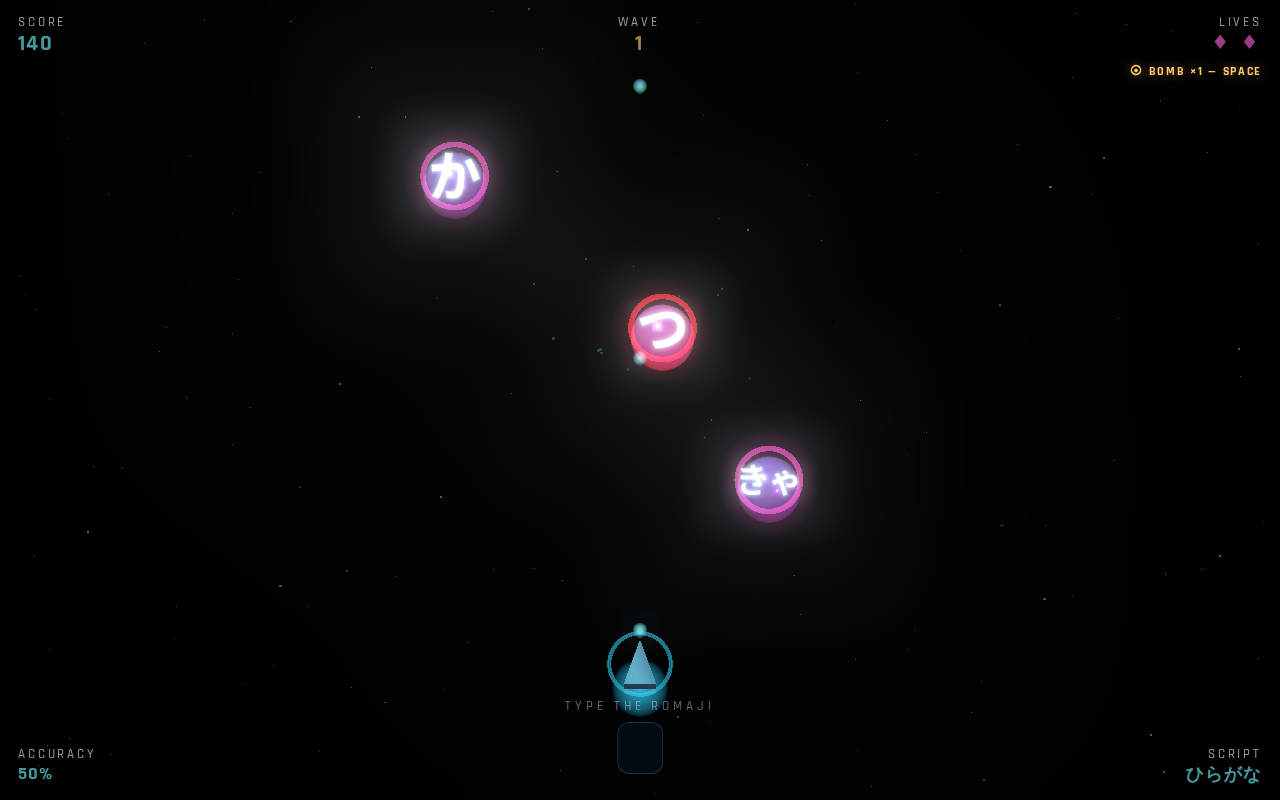
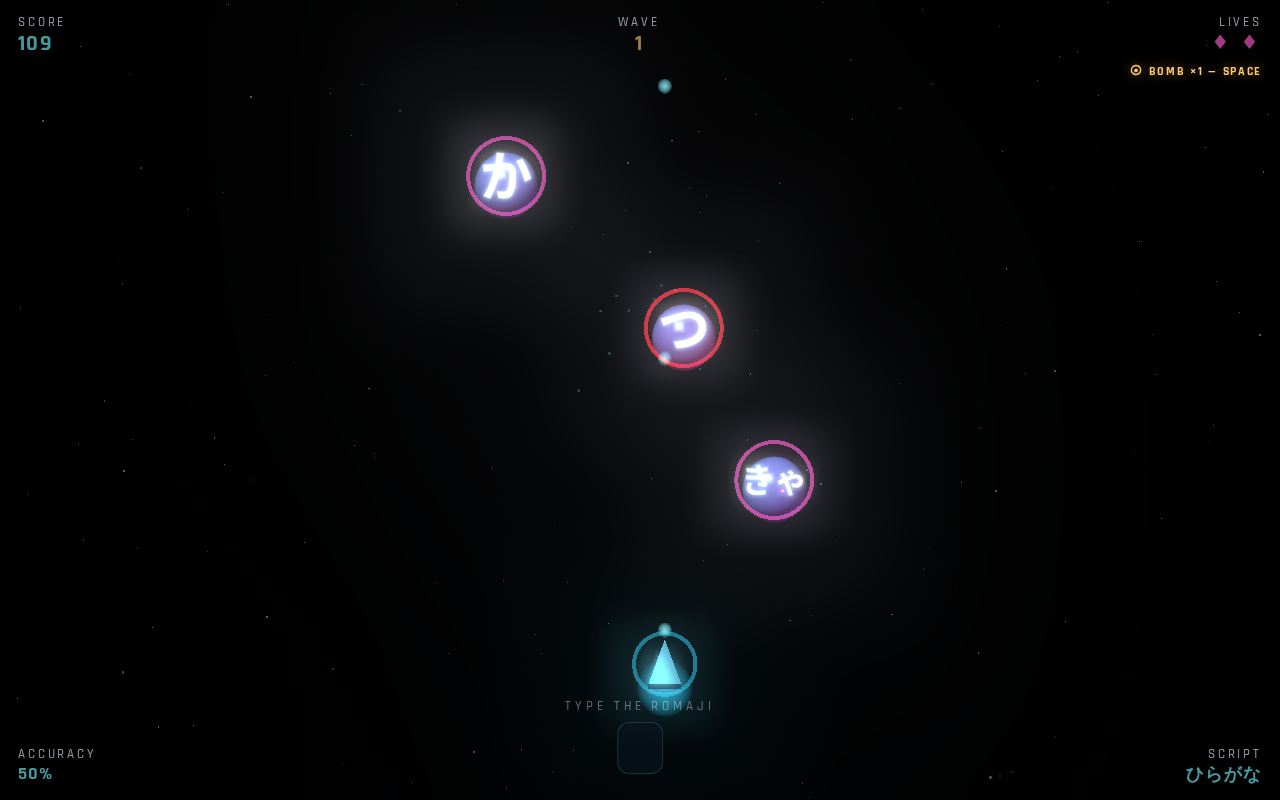
Fix enemy bubbles reading as flat tiles instead of spheres
Two things were independently flattening the lit sphere's shading:

1. The per-frame emissive tint (targeting/wounded state color) was applied
   uniformly across the whole surface regardless of normal direction, which
   washed out the directional gradient entirely. Cut emissiveIntensity way
   down (0.15/0.35/0.8 -> 0.04/0.1/0.22) — the ring and halo already carry
   that state signal via color, so the bubble didn't need to repeat it at
   full strength.

2. The glow ring sat right on the sphere's silhouette edge (radii 3.6-4.3 vs
   sphere radius 4) and the halo sprite's additive glow blanketed the whole
   face, so even correct sphere shading got buried under uniform glow before
   bloom ran. Moved the ring clear of the sphere (4.5-5.0) so there's a real
   gap showing bare, shaded surface, and dimmed/shrank the halo so it reads
   as an outer aura rather than a wash over the ball itself.

Also bumped the key light and dropped ambient further for more contrast
between lit and shadowed hemispheres. Verified by rendering a bubble alone
(ring/glyph/halo hidden) to confirm the base sphere shading was correct
before tuning the compositing on top of it.

Claude-Session: https://claude.ai/code/session_019cpcKUdB5Yisp8d3dSsc5r

diff --git a/index.html b/index.html
@@ -483,8 +483,8 @@ scene.fog = new THREE.FogExp2(0x05060b, 0.0032);
 // Everything else in the scene is unlit (MeshBasicMaterial/Sprite), so these
 // only matter to the enemy bubble's lit sphere below — they give it an actual
 // shaded highlight/terminator instead of a flat silhouette.
-scene.add(new THREE.AmbientLight(0x15182a, 0.4));
-const bubbleKey = new THREE.DirectionalLight(0xdcf3ff, 3.2);
+scene.add(new THREE.AmbientLight(0x15182a, 0.22));
+const bubbleKey = new THREE.DirectionalLight(0xdcf3ff, 5.5);
 bubbleKey.position.set(-20, 30, 60);
 scene.add(bubbleKey);
 const bubbleRim = new THREE.DirectionalLight(0xff6fe0, 1.3);
@@ -739,7 +739,11 @@ function spawnEnemy(entry, speed){
   g.add(plane);
 
   const ring = new THREE.Mesh(
-    new THREE.RingGeometry(3.6, 4.3, 40),
+    // Held clear of the sphere's own radius (4) with a visible gap, instead of
+    // overlapping its edge — sitting right on the silhouette made the ring
+    // read as a coin's rim and hid the one strip of bare, shaded surface that
+    // would otherwise sell "ball", not "disc".
+    new THREE.RingGeometry(4.5, 5.0, 40),
     new THREE.MeshBasicMaterial({ color: 0xff5fd2, transparent: true, opacity: 0.7,
       side: THREE.DoubleSide, blending: THREE.AdditiveBlending, depthWrite: false })
   );
@@ -748,10 +752,12 @@ function spawnEnemy(entry, speed){
   g.add(ring);
 
   const halo = new THREE.Sprite(new THREE.SpriteMaterial({
-    map: GLOW_TEX, color: 0xff5fd2, transparent: true, opacity: 0.13,
+    map: GLOW_TEX, color: 0xff5fd2, transparent: true, opacity: 0.07,
     blending: THREE.AdditiveBlending, depthWrite: false,
   }));
-  halo.scale.set(13, 13, 1); halo.position.z = -1;
+  // Smaller and dimmer than before — this used to wash additively right over
+  // the sphere's face and flatten its lit gradient into a uniform glow disc.
+  halo.scale.set(10, 10, 1); halo.position.z = -1;
   g.add(halo);
 
   const x = (Math.random() - 0.5) * (viewW - 34);
@@ -1284,14 +1290,17 @@ function update(dt){
       e.ring.material.color.setHex(0xff3344);
       e.ring.material.opacity = pulse;
       e.halo.material.color.setHex(0xff3344);
+      // Emissive stays faint even here — a flat wash this strong was what
+      // erased the sphere's lit gradient and made it read as a flat tile.
+      // The ring/halo flashing red already carries the "wounded" signal.
       e.bubble.material.emissive.setHex(0xff3344);
-      e.bubble.material.emissiveIntensity = pulse * 0.8;
+      e.bubble.material.emissiveIntensity = pulse * 0.22;
     } else {
       e.ring.material.color.setHex(isTarget ? 0x7dffb0 : nearMatch ? 0x9ff6ff : 0xff5fd2);
       e.ring.material.opacity = isTarget ? 1 : nearMatch ? 0.85 : 0.6;
       e.halo.material.color.setHex(isTarget ? 0x7dffb0 : 0xff5fd2);
       e.bubble.material.emissive.setHex(isTarget ? 0x7dffb0 : 0xff5fd2);
-      e.bubble.material.emissiveIntensity = isTarget ? 0.35 : 0.15;
+      e.bubble.material.emissiveIntensity = isTarget ? 0.1 : 0.04;
     }
 
     // Escaped the field.
